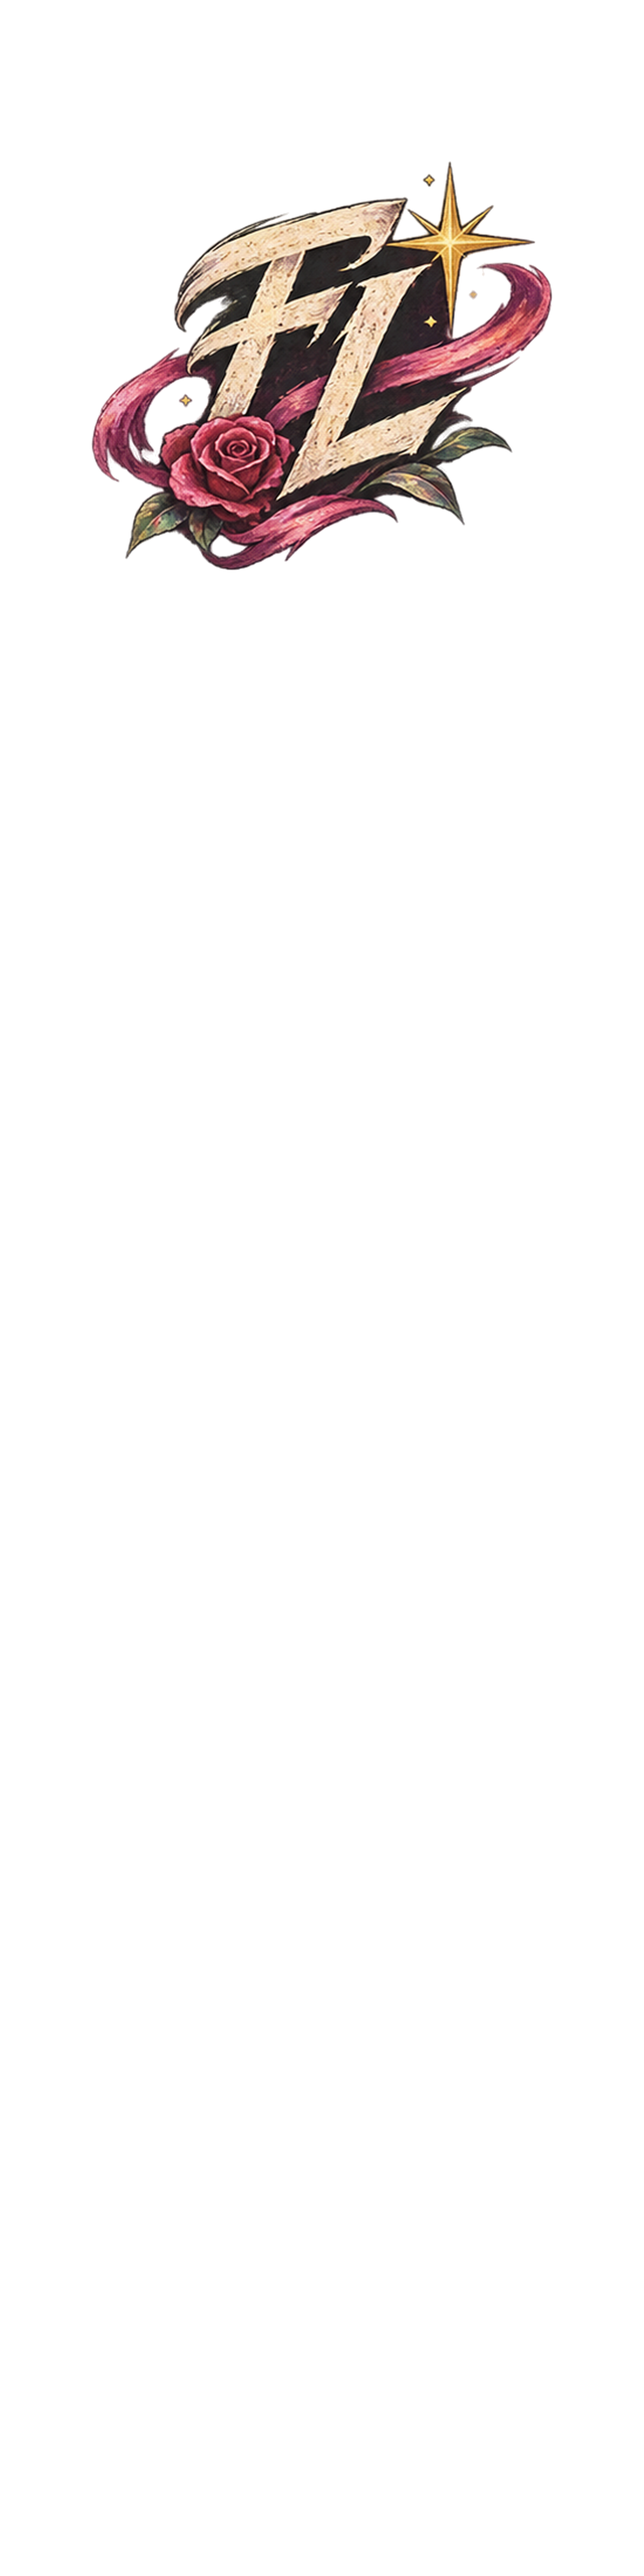
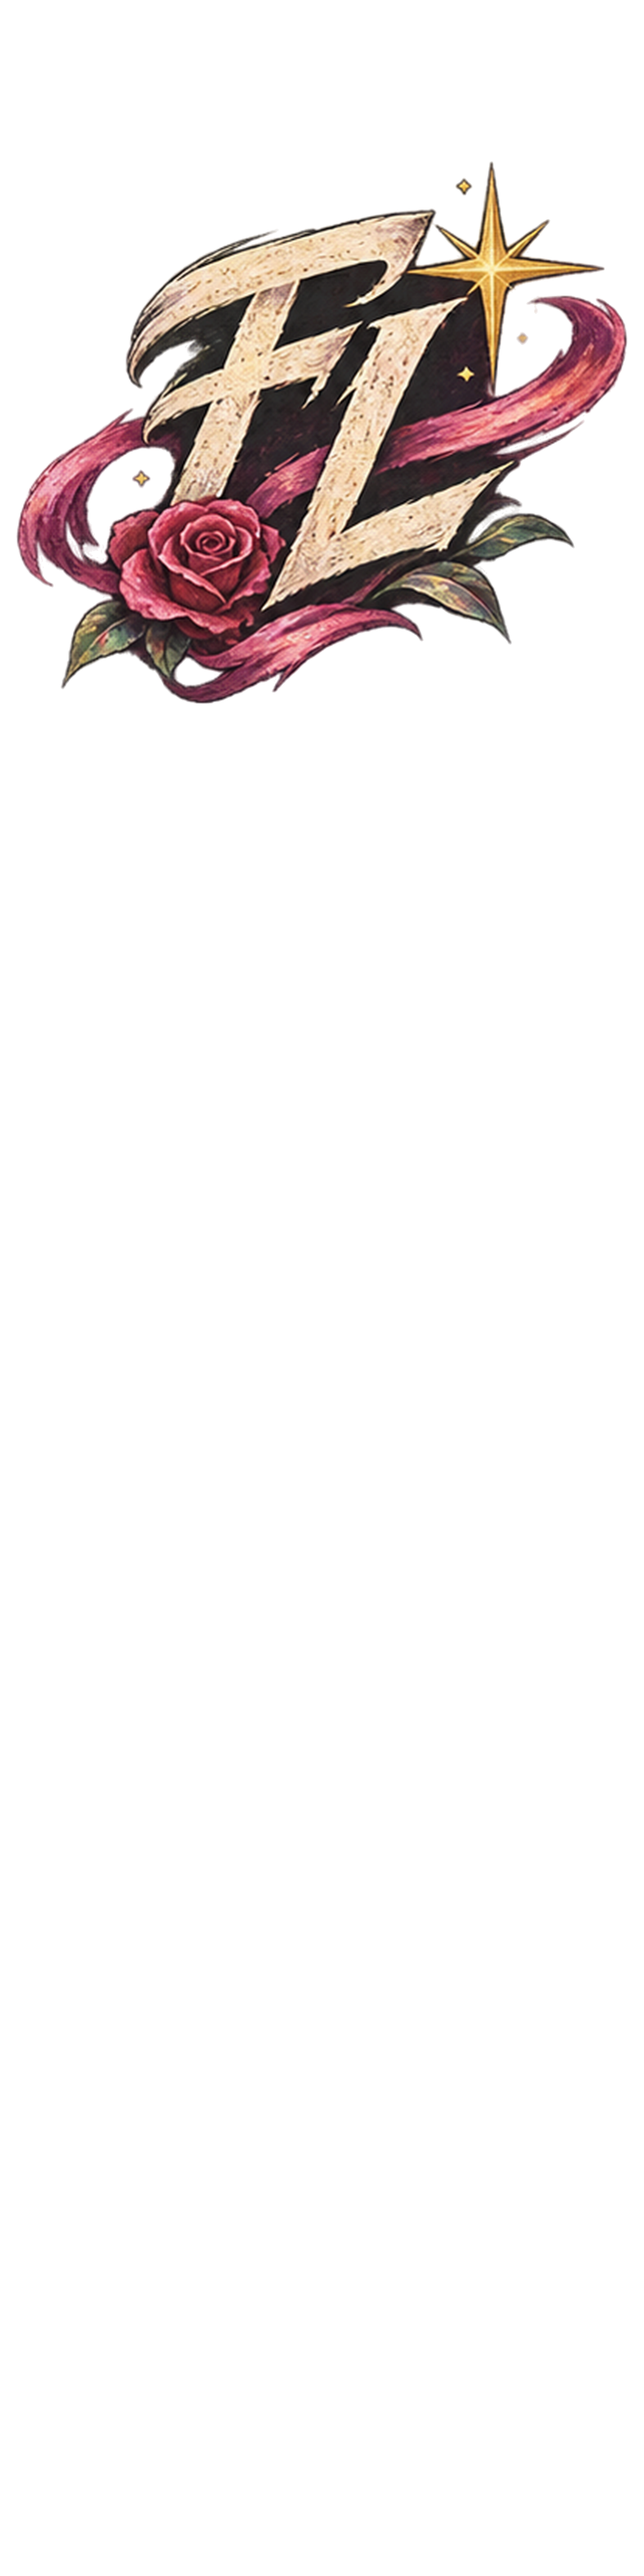
Sweatpants back on Gildan 18200 / SwiftPOD with full-width emblem
Claude-Session: https://claude.ai/code/session_01T2BjBwV7d2vTxpMeBzrFvG

Changed region(s): [[0.0308, 0.0625, 0.9867, 0.2812]]

diff --git a/printify/create_pants.py b/printify/create_pants.py
@@ -10,17 +10,19 @@ from create_products import Printify
 
 SHOP = "/shops/29509655"
 ROOT = os.path.dirname(os.path.dirname(os.path.abspath(__file__)))
-PRINT = os.path.join(ROOT, "designs/pants-2026/print-pocket")  # make_print.py pocket
+PRINT = os.path.join(ROOT, "designs/pants-2026/print")  # make_print.py (18200); print-pocket = 18100
 DONE = os.path.join(ROOT, "printify/pants.json")
-COLORS = ("Black", "Navy", "Dark Heather")
-BLUEPRINT, PROVIDER = 6039, 217
-LEFT, RIGHT = "front_left_leg_dtf", "front_right_leg_dtf"
+COLORS = ("Black", "Navy")
+BLUEPRINT, PROVIDER = 1398, 39   # Gildan 18200 at SwiftPOD (18100 pocket at Fulfill Engine was 6039 / 217)
+LEFT, RIGHT = "left_leg_front", "right_leg_front"
 PRICES = {"S": 4200, "M": 4200, "L": 4200, "XL": 4200, "2XL": 4600, "3XL": 4800}  # two print spots
-FEATURES = ("<ul><li>Gildan Heavy Blend fleece, 50% cotton / 50% polyester, 8 oz</li>"
-            "<li>Side pockets, covered elastic waistband with drawcord, elastic cuffs</li>"
-            "<li>Same Gildan fleece as our hoodies</li>"
+FEATURES = ("<ul><li>Gildan Heavy Blend fleece, 50% cotton / 50% polyester</li>"
+            "<li>Elastic waistband with drawcord, elastic cuffs</li>"
+            "<li>Same maker as our hoodies, so a matching set usually ships together</li>"
             "<li>Printed to order just for you</li></ul>"
-            "<h3>Size &amp; fit</h3><p>Available sizes: S, M, L, XL, 2XL, 3XL. Unisex fit.</p>")
+            "<h3>Size &amp; fit</h3><p>Available sizes: S, M, L, XL, 2XL, 3XL. Unisex fit.</p>"
+            "<p><strong>Make it a set:</strong> add any hoodie or crewneck and get 20% off the sweatpants, from "
+            "December 18. Until then, the Holiday Sale takes 15% off both.</p>")
 
 COLLECTIONS = {
     "side-quest": ("Side Quest", ["player two", "side quest", "gaming", "nerdy"],
@@ -58,7 +60,9 @@ def main():
                 path = os.path.join(PRINT, f"{slug}-{style}.png")
                 ups[style] = api.post("/uploads/images.json", {"file_name": os.path.basename(path),
                                       "contents": base64.b64encode(open(path, "rb").read()).decode()})["id"]
-            desc = (f"<p>The {title} are fleece sweatpants made to match our {name} hoodies, tees and crewnecks: "
+            match = ("that start our Urban Collection" if slug == "urban-collection"
+                     else f"made to match our {name} hoodies, tees and crewnecks")
+            desc = (f"<p>The {title} are fleece sweatpants {match}: "
                     f"the full design down the left leg and its emblem on the right thigh.</p><p>{bold_desc}</p>" + FEATURES)
             vids = [v["id"] for v in variants]
             body = {"title": title, "description": desc, "blueprint_id": BLUEPRINT, "print_provider_id": PROVIDER,

diff --git a/designs/pants-2026/make_print.py b/designs/pants-2026/make_print.py
@@ -15,7 +15,7 @@ import sys
 POCKET = 'pocket' in sys.argv[1:]
 W, H = (1200, 4200) if POCKET else (1200, 4800)
 OUT = 'print-pocket' if POCKET else 'print'
-EMBLEM_W = 1140 if POCKET else 860
+EMBLEM_W = 1140  # full width since 2026-11-20 (owner asked for a bigger emblem)
 os.makedirs(OUT, exist_ok=True)
 
 

diff --git a/STORE_NOTES.md b/STORE_NOTES.md
@@ -13,7 +13,7 @@ Facts worth remembering between sessions. Update as things change.
 - Hoodies: $37
 - Hats, beanies, phone cases: $27
 - Mugs, ornaments: $17
-- Sweatpants: $42 (S-XL), $46 2XL, $48 3XL (two print spots; Gildan 18100 pocket, Black/Navy/Dark Heather)
+- Sweatpants: $42 (S-XL), $46 2XL, $48 3XL (two print spots; Gildan 18200 at SwiftPOD, Black/Navy)
 - Koozies: $9.99; automatic tiers 2+ $8, 4+ $7.50, 6+ $7 each (best one applies, none stack)
 - Desk mats: $27 / $37 / $47 by size
 - Posters: removed from the store (2026-11-10)
@@ -338,6 +338,12 @@ Monster of the Week (held: resembles a trademarked character).
   Owner published Set Deal (2026-11-20) and deleted a few drafts (17 themes left).
 - Main menu (2026-11-20): "Sweatpants" added to Shop after Hoodies & Crewnecks; "Urban Collection" added to
   Collections (menuUpdate replaces the whole list, so all existing items are resent with their ids). Checked live.
+- Sweatpants back on Gildan 18200 / SwiftPOD (2026-11-20, owner preferred its full-pants mockups over the 18100's
+  per-leg close-ups): Black + Navy, S-3XL, $42/$46/$48, emblem now full width (1140 px) on the right thigh, big
+  design unchanged on the left. Cost with Premium $23.73 S-XL, $28.62 2XL, $30.40 3XL. New Shopify ids again
+  (8915869171873, 8915869925537, 8915870711969, 8915871269025, 8915871727777, 8915872055457); the 18100 ones are
+  in printify/pants_18100_retired.json. Descriptions keep the set-deal line and the Urban wording (now built in
+  create_pants.py). Ships with SwiftPOD hoodies again. Dec 18 check-in updated with the new ids.
 - Koozie options in Printify (checked 2026-11-18, cost before shipping; US shipping first item):
   Can Cooler bp951 (Pic The Gift, regular + slim, edge-to-edge print) $4.99, ship $5.59;
   Can Cooler Sleeve bp636 (neoprene, front+back) $7.92, ship $5.59; Slim Can Cooler bp808 $9.28, ship $5.89;
